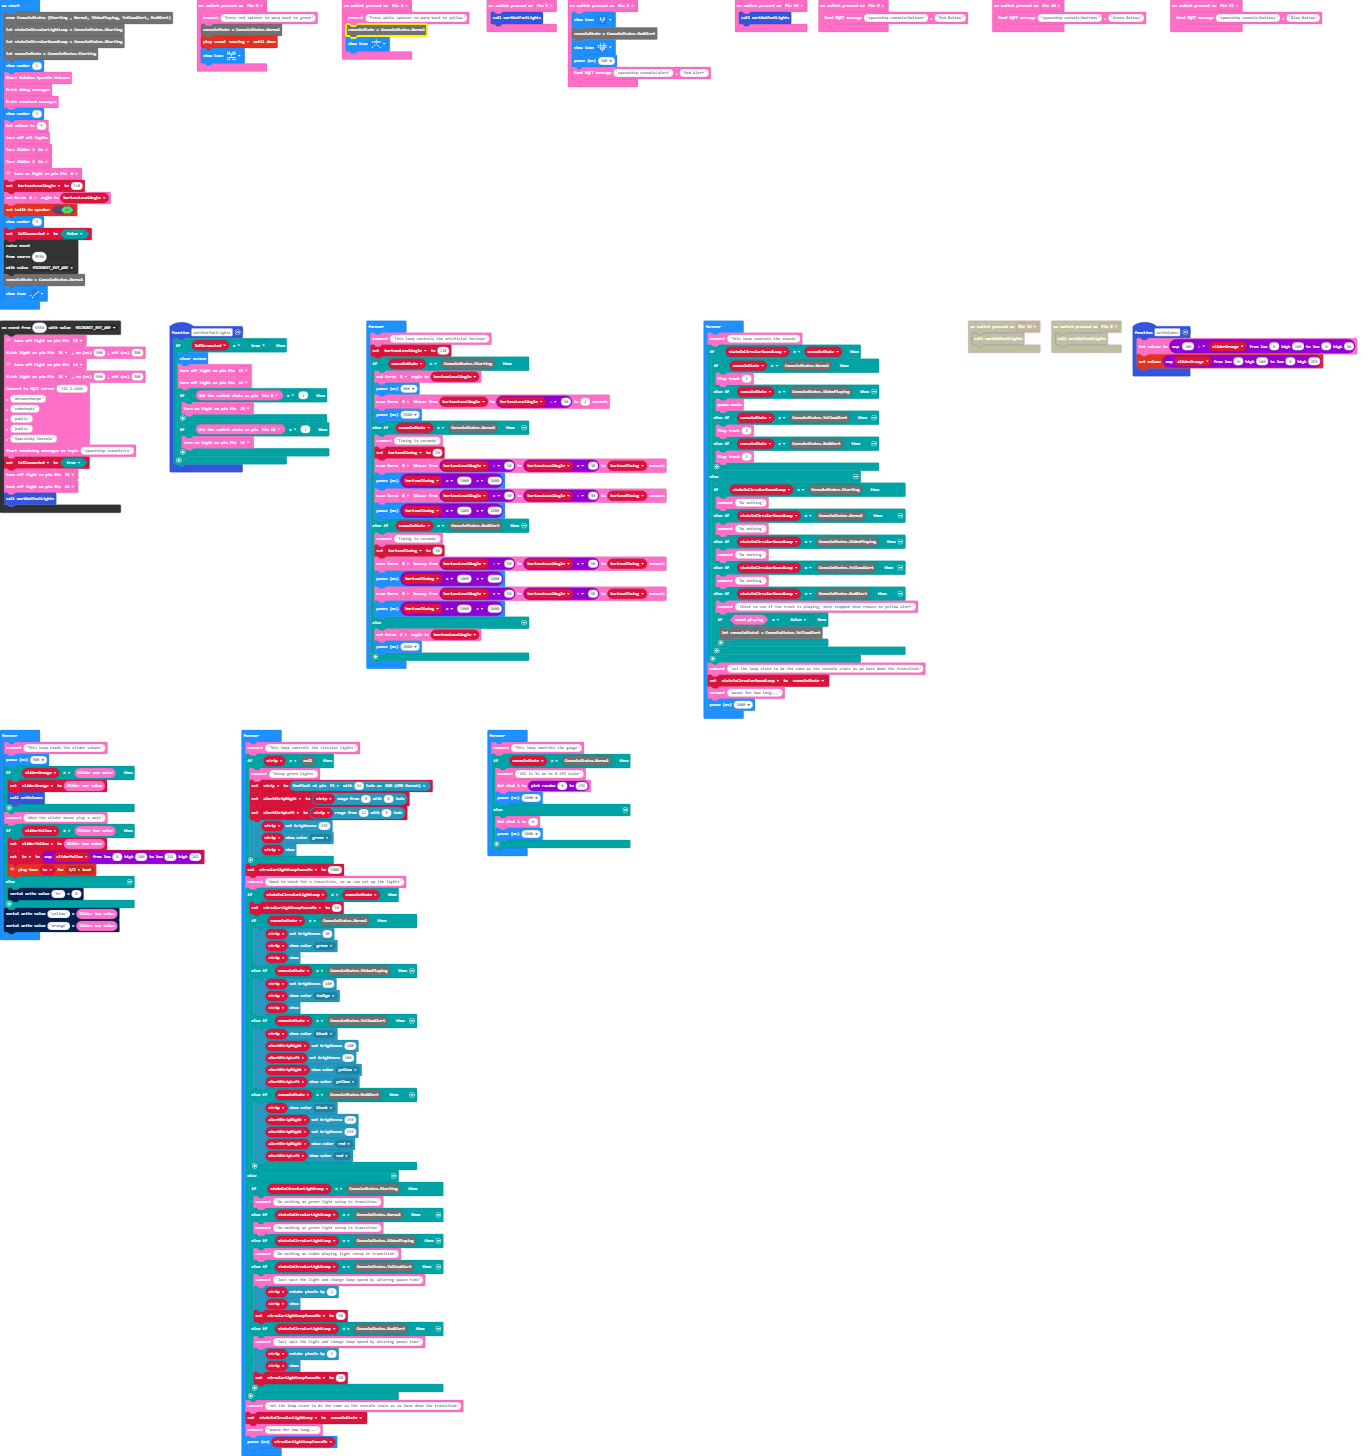
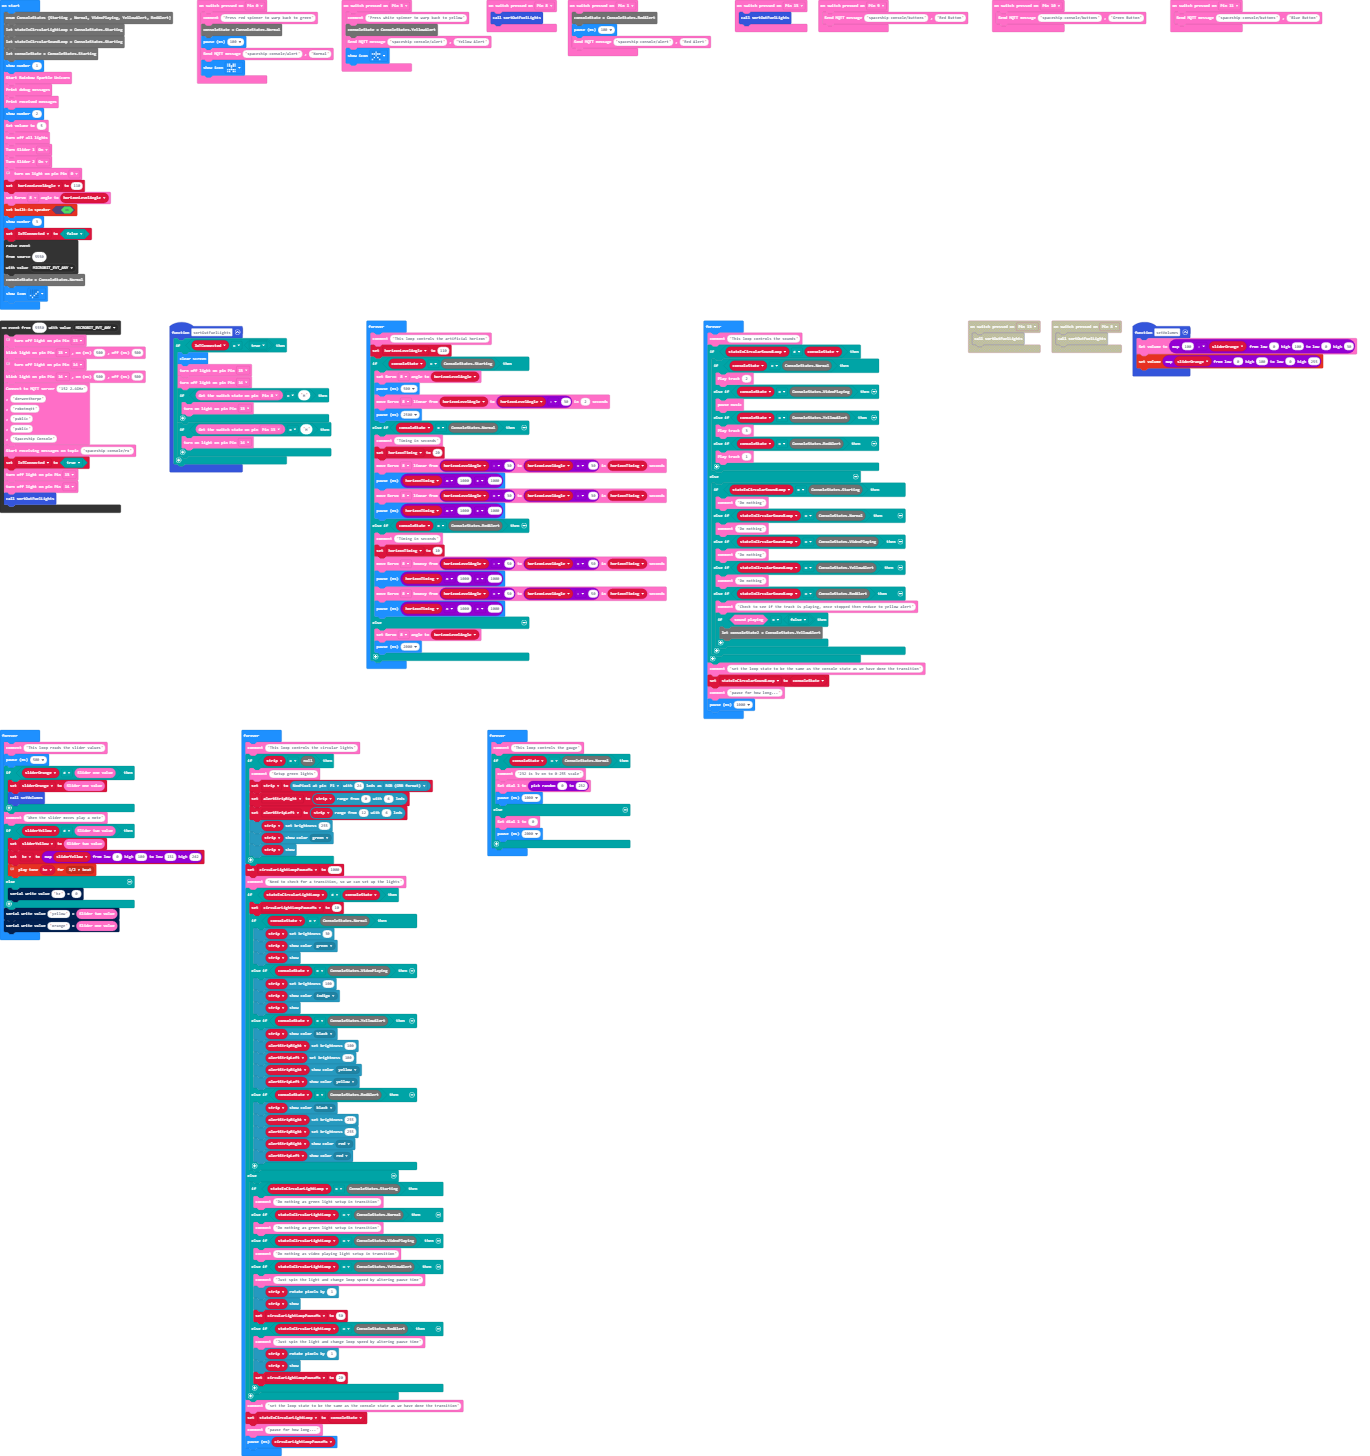
Update pxt.json, main.blocks, main.ts

Changed region(s): [[0.1226, 0.0, 0.3372, 0.0618], [0.3985, 0.0, 0.5212, 0.0618]]

diff --git a/main.ts b/main.ts
@@ -2,30 +2,15 @@ function setVolumes () {
     RainbowSparkleUnicorn.Sound.setVolume(Math.map(100 - sliderOrange, 0, 100, 0, 30))
     music.setVolume(Math.map(sliderOrange, 0, 100, 0, 255))
 }
-
 RainbowSparkleUnicorn.Switch.onSwitchPressed(switchPins.P3, function () {
     RainbowSparkleUnicorn.comment("Press white spinner to warp back to yellow")
     consoleState = ConsoleStates.YellowAlert
-    RainbowSparkleUnicorn.IoT.sendMQTTMessage("spaceship-console/alert", "Yellow Alert")
+RainbowSparkleUnicorn.IoT.sendMQTTMessage("spaceship-console/alert", "Yellow Alert")
     basic.showIcon(IconNames.StickFigure)
 })
-
 RainbowSparkleUnicorn.Switch.onSwitchPressed(switchPins.P9, function () {
     RainbowSparkleUnicorn.IoT.sendMQTTMessage("spaceship-console/buttons", "Red Button")
 })
-
-RainbowSparkleUnicorn.Switch.onSwitchPressed(switchPins.P0, function () {
-    RainbowSparkleUnicorn.comment("Press red spinner to warp back to green")
-    consoleState = ConsoleStates.Normal
-    basic.pause(100)
-    RainbowSparkleUnicorn.IoT.sendMQTTMessage("spaceship-console/alert", "Normal")
-    basic.showIcon(IconNames.Butterfly)
-})
-
-RainbowSparkleUnicorn.Switch.onSwitchPressed(switchPins.P8, function () {
-    sortOutFuelLights()
-})
-
 control.onEvent(5550, EventBusValue.MICROBIT_EVT_ANY, function () {
     // Pink Right Light
     RainbowSparkleUnicorn.Light.turnOff(lightPins.P13)
@@ -47,40 +32,43 @@ control.onEvent(5550, EventBusValue.MICROBIT_EVT_ANY, function () {
     RainbowSparkleUnicorn.Light.turnOff(lightPins.P14)
     sortOutFuelLights()
 })
-
 RainbowSparkleUnicorn.Switch.onSwitchPressed(switchPins.P10, function () {
     RainbowSparkleUnicorn.IoT.sendMQTTMessage("spaceship-console/buttons", "Green Button")
 })
-
 RainbowSparkleUnicorn.Switch.onSwitchPressed(switchPins.P1, function () {
     consoleState = ConsoleStates.RedAlert
-    basic.pause(100)
+basic.pause(100)
     RainbowSparkleUnicorn.IoT.sendMQTTMessage("spaceship-console/alert", "Red Alert")
 })
 RainbowSparkleUnicorn.Switch.onSwitchPressed(switchPins.P11, function () {
     RainbowSparkleUnicorn.IoT.sendMQTTMessage("spaceship-console/buttons", "Blue Button")
 })
-
 RainbowSparkleUnicorn.Switch.onSwitchPressed(switchPins.P13, function () {
     sortOutFuelLights()
 })
-
 function sortOutFuelLights () {
     if (IoTConnected == true) {
         basic.clearScreen()
         RainbowSparkleUnicorn.Light.turnOff(lightPins.P13)
         RainbowSparkleUnicorn.Light.turnOff(lightPins.P14)
-        if (RainbowSparkleUnicorn.Switch.getSwitchState(switchPins.P8) == 1) {
+        if (RainbowSparkleUnicorn.Switch.getSwitchState(switchPins.P8) == "H") {
             RainbowSparkleUnicorn.Light.turnOn(lightPins.P13)
         }
-        if (RainbowSparkleUnicorn.Switch.getSwitchState(switchPins.P13) == 1) {
+        if (RainbowSparkleUnicorn.Switch.getSwitchState(switchPins.P13) == "H") {
             RainbowSparkleUnicorn.Light.turnOn(lightPins.P14)
         }
     }
 }
-
-
-
+RainbowSparkleUnicorn.Switch.onSwitchPressed(switchPins.P0, function () {
+    RainbowSparkleUnicorn.comment("Press red spinner to warp back to green")
+    consoleState = ConsoleStates.Normal
+basic.pause(100)
+    RainbowSparkleUnicorn.IoT.sendMQTTMessage("spaceship-console/alert", "Normal")
+    basic.showIcon(IconNames.Butterfly)
+})
+RainbowSparkleUnicorn.Switch.onSwitchPressed(switchPins.P8, function () {
+    sortOutFuelLights()
+})
 let circularLightLoopPauseMs = 0
 let alertStripLeft: neopixel.Strip = null
 let alertStripRight: neopixel.Strip = null
